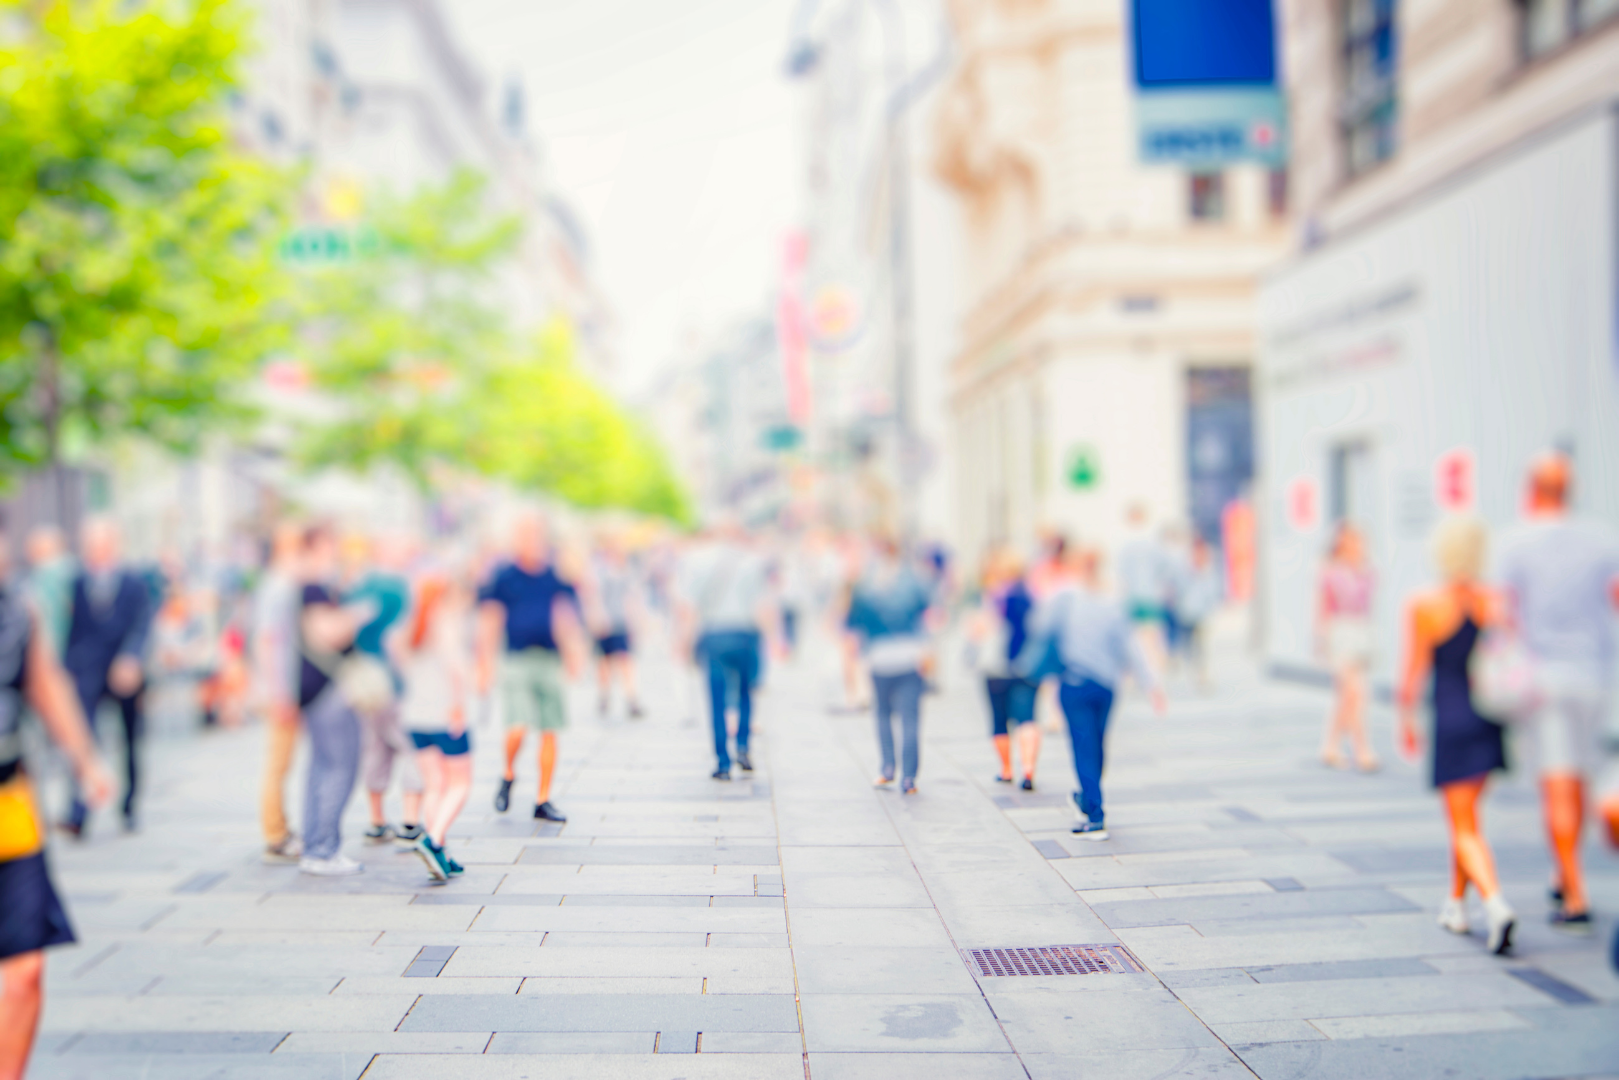
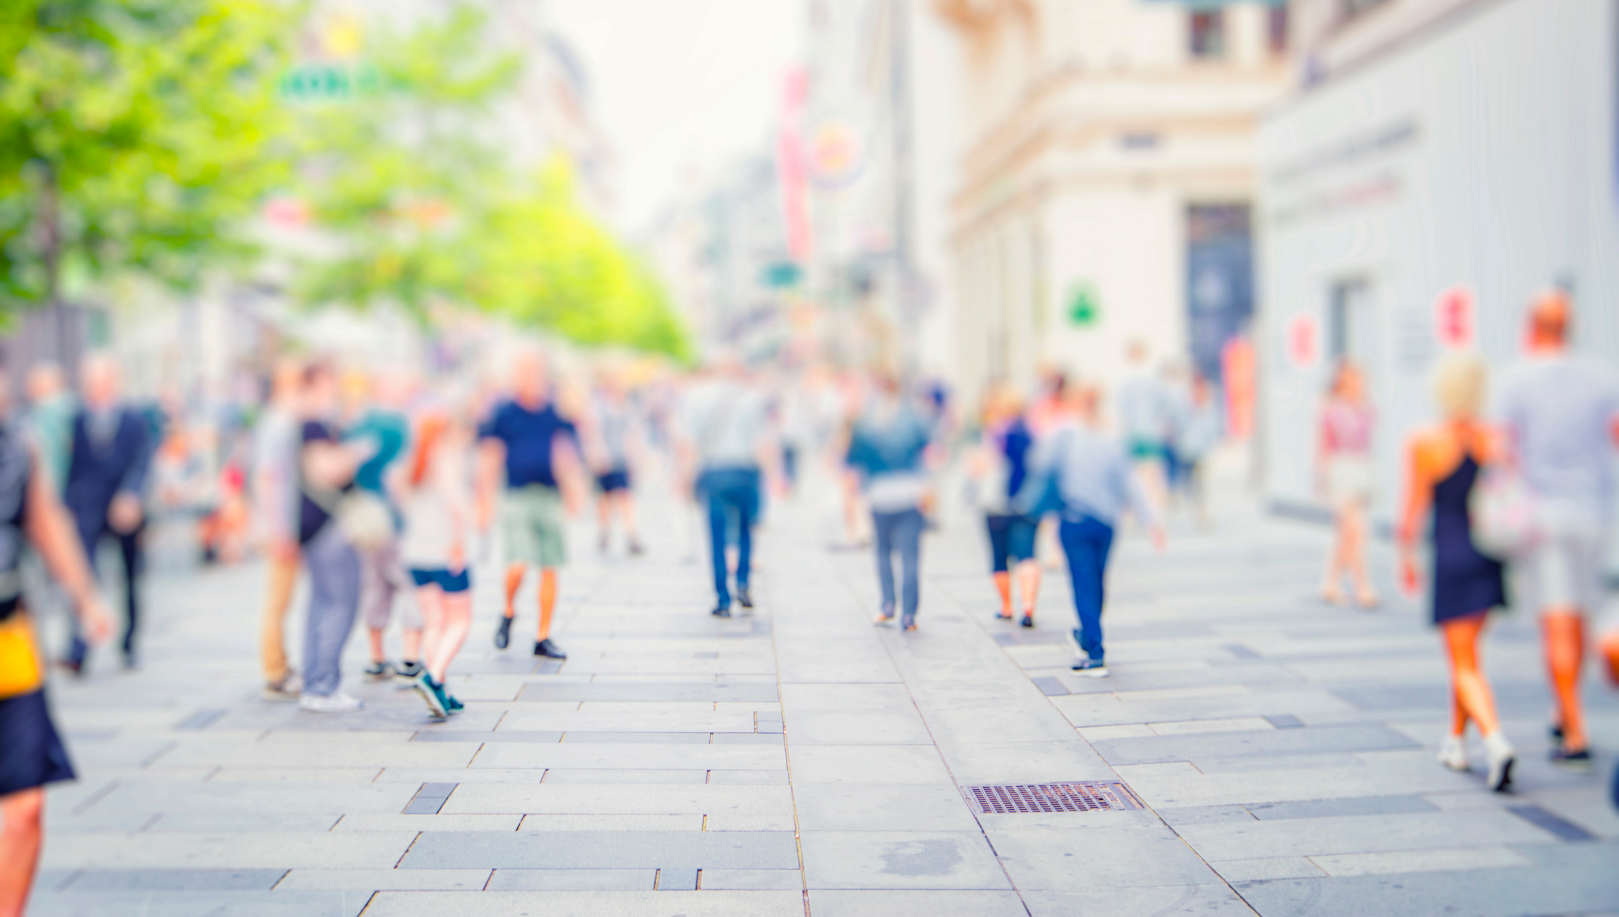
Finish intial refactor

diff --git a/src/components/pages/Home/styles.css b/src/components/pages/Home/styles.css
@@ -5,14 +5,10 @@
 }
 
 #logoBlack {
-  height: 33vh;
-  margin-top: 7%;
-  background: linear-gradient(
-180deg
-, rgba(255,255,255,0) 0%, rgba(255,255,255,1) 67%);
+  height: 37vh;
+  margin-top: 5%;
   padding: 0.7rem 1.7rem;
-  filter: drop-shadow(0px 6px 6px #150938);
-  border-radius: 7px;
+  filter: drop-shadow(0px 6px 6px white);
 }
 
 #portalAccess {
@@ -84,7 +80,9 @@
   display: flex;
   justify-content: space-evenly;
   align-items: center;
-  background: linear-gradient(0deg, rgba(255,255,255,1) 0%, #039746 100%);
+  background: linear-gradient( 
+    0deg
+     , rgba(255,255,255,1) 0%, #15b46f 100%);
   border-bottom: 1px solid #f4f0fff5;
   box-shadow: inset 0px -4px 8px 4px #0397463b;
   min-height: 207px;
@@ -186,11 +184,12 @@
 #missionStatementUnderlines {
   margin: 2rem auto;
   width: 55%;
+  filter: hue-rotate(263deg);
 }
 
 #community {
-  color: #1B5BFA;
-  text-shadow: 1px 1px 2px #050002;
+  color: #17ac6c;
+  text-shadow: 1px 1px 2px #150938;
 }
 
 #portalModal {
@@ -230,6 +229,77 @@
   z-index: 1;
 }
 
+.home-section {
+  display: flex;
+  flex-direction: column;
+  padding: 2rem;
+  font-size: 2rem;
+}
+
 #whatWeDo {
-  background: black;
+  text-align: right;
+  background: #08553314;
+  border-top: 1px solid #8fc4b1;
+  border-bottom: 1px solid #8fc4b1;
+}
+
+#whatWeDoHeader {
+  align-self: flex-end;
+}
+
+#whatWeDoContentWrapper {
+  display: flex;
+}
+
+#whatWeDoIcon {
+  height: 11rem;
+  align-self: flex-end;
+  filter: opacity(0.3);
+}
+
+#whatWeDoContent {
+  margin: 1rem 4rem 0rem;
+  line-height: 2.9rem;
+}
+
+#whyWereHere {
+  text-align: left;
+}
+
+#whyWereHere p {
+  margin: 2rem;
+}
+
+#whyWereHereContent2 {
+  text-align: center; 
+}
+
+#communityVector {
+  width: 50vw;
+  filter: opacity(0.1);
+  margin: auto;
+}
+
+#explore {
+  display: flex;
+  justify-content: space-around;
+  font-size: 2rem;
+  margin-bottom: 4rem;
+}
+
+.home-link {
+  padding: 2rem;
+  border-radius: 6rem;
+  text-decoration: none;
+  color: white;
+  background: #db1f7d99;
+  box-shadow: inset 0px 0px 10px 11px #30274fa8;
+  transition-duration: 75ms;
+  text-shadow: 1px 3px 2px #1a0f40;
+}
+
+.home-link:hover {
+  color: white;
+  background: #150938ed;
+  box-shadow: inset 1px 0px 11px 2px #5c28fa;
 }

diff --git a/src/components/pages/Home/index.jsx b/src/components/pages/Home/index.jsx
@@ -62,7 +62,7 @@ const Home = ({ history }) => {
             <Parallax 
                 id='parallax' 
                 blur={1} 
-                bgImage={pix.blurryIntersection11} 
+                bgImage={pix.blurryIntersection5} 
                 bgImageAlt='background' 
                 strength={250}
             >
@@ -108,7 +108,7 @@ const Home = ({ history }) => {
                 </>
             )}
 
-            <section id='missionStatement' className='home-section'>
+            <section id='missionStatement'>
                 <div id='missionStatementLeft'>
                     <h2 id='whoWeAre' className='home-sub-header'>{t.whoWeAre}</h2>
                     <img id='treeVectors' src={pix.treeVectors} />
@@ -132,19 +132,23 @@ const Home = ({ history }) => {
 
             <section id='whatWeDo' className='home-section'>
                 <h2 id='whatWeDoHeader' className='home-sub-header'>{t.whatWeDoHeader}</h2>
-                <p id='whatWeDoContent'>{t.whatWeDoContent}</p>
+                <div id='whatWeDoContentWrapper'>
+                    <p id='whatWeDoContent'>{t.whatWeDoContent}</p>
+                    <img id='whatWeDoIcon' src={pix.networkIcon1} />
+                </div>
             </section>
 
             <section id='whyWereHere' className='home-section'>
                 <h2 id='whyWereHereHeader' className='home-sub-header'>{t.whyWereHereHeader}</h2>
                 <p id='whyWereHereContent1'>{t.whyWereHereContent1}</p>
+                <img id='communityVector' src={pix.communityVector} />
                 <p id='whyWereHereContent2'>{t.whyWereHereContent2}</p>
             </section>
 
-            <section id='explore' className='home-section'>
-                <Link to={paths.vision}>{t.vision}</Link>
-                <Link to={paths.partners}>{t.partners}</Link>
-                <Link to={paths.contact}>{t.contact}</Link>
+            <section id='explore'>
+                <Link to={paths.vision} className='home-link'>{t.vision}</Link>
+                <Link to={paths.partners} className='home-link'>{t.partners}</Link>
+                <Link to={paths.contact} className='home-link'>{t.contact}</Link>
             </section>
         </main>
     )

diff --git a/src/components/pages/Vision/index.jsx b/src/components/pages/Vision/index.jsx
@@ -1,5 +1,4 @@
 import React from 'react'
-import { Card, Icon, Image } from 'semantic-ui-react'
 import './styles.css'
 
 import { contentBoxes } from '../../../constants'
@@ -13,26 +12,8 @@ const t = {
 
 const Vision = () =>
     <main id='visionPage'>
-        <img id='visionVector' src={pix.fiveGVector} />
+        <img id='visionVector' src={pix.fiveGSkySignal} />
         <h1 id='visionHeader'>{t.header}</h1>
-        {/* <Card>
-            <Image src='https://react.semantic-ui.com/images/avatar/large/matthew.png' wrapped ui={false} />
-            <Card.Content>
-                <Card.Header>Matthew</Card.Header>
-                <Card.Meta>
-                    <span className='date'>Joined in 2015</span>
-                </Card.Meta>
-                <Card.Description>
-                    Matthew is a musician living in Nashville.
-                </Card.Description>
-                </Card.Content>
-                <Card.Content extra>
-                <a>
-                    <Icon name='user' />
-                    22 Friends
-                </a>
-            </Card.Content>
-        </Card> */}
         {contentBoxes.ourVision.map(({ id, title, content }) => 
             <ContentBox key={id} id={id} title={title} content={content} />
         )}

diff --git a/src/assets/pix/index.js b/src/assets/pix/index.js
@@ -18,6 +18,7 @@ import cityCenterWoman from './cityCenterWoman.png'
 import cityEagleView from './cityEagleView.png'
 import cityObelisk from './cityObelisk.png'
 import communityDefinition from './communityDefinition.png'
+import communityVector from './communityVector.png'
 import constructionCrew from './constructionCrew.png'
 import farmFamily from './farmFamily.png'
 import fireworks from './fireworks.png'
@@ -49,6 +50,7 @@ import ladyCrossing from './ladyCrossing.png'
 import logoWhite from './logoWhite.png'
 import logoBlack from './logoBlack.png'
 import mainStreet from './mainStreet.jpg'
+import networkIcon1 from './networkIcon1.png'
 import niceWalkway from './niceWalkway.png'
 import nightStation from './nightStation.png'
 import nuts from './nuts.png'
@@ -88,6 +90,7 @@ export {
     cityEagleView,
     cityObelisk,
     communityDefinition,
+    communityVector,
     constructionCrew,
     farmFamily,
     fireworks,
@@ -119,6 +122,7 @@ export {
     logoWhite,
     logoBlack,
     mainStreet,
+    networkIcon1,
     niceWalkway,
     nightStation,
     nuts,

diff --git a/src/components/UI/ContentBox/styles.css b/src/components/UI/ContentBox/styles.css
@@ -8,6 +8,12 @@
     margin: 1rem;
 } 
 
+.content-box-section:nth-child(odd) {
+    background: #08553314;
+    border-top: 1px solid #8fc4b1;
+    border-bottom: 1px solid #8fc4b1;
+}
+
 .content-box-section:nth-child(even) h2 {
     float: left;
 }
@@ -18,10 +24,9 @@
 .content-box-title {
     font-family: 'Ubuntu', sans-serif;
     font-size: 3rem;
-    color: #550034;
+    color: #150938;
     padding: 1rem;
-    width: fit-content;
-    text-shadow: 1px 1px 3px #31f7b5;
+    text-shadow: 1px 1px 3px #acf3da;   
 }
 
 .content-box-content {

diff --git a/src/constants.js b/src/constants.js
@@ -64,8 +64,8 @@ export const contentBoxes = {
     ],
     ourVision: [
         {
-            id: 'whatWeDo',
-            title: 'What We Do',
+            id: 'mission',
+            title: 'Mission Statement',
             content: `What is needed is a deeper understanding of the community’s goals, and then building a
             system around them. Civitas’ s customized, flexible Open Source 5G based wireless network
             supplies the community with not only reliable, secure, and high-speed data, but a whole host

diff --git a/src/components/UI/NavBar/styles.css b/src/components/UI/NavBar/styles.css
@@ -18,13 +18,13 @@
   padding: 1.1rem 0;
   text-decoration: none;
   color: white;
-  background: #a44165c7;
-  box-shadow: inset 0px 0px 10px 11px #30274fc2;
   width: 12rem;
   transition-duration: 75ms;
   text-shadow: 2px 3px 3px #1a0f40;
   border-radius: 3px;
   height: 3.4rem;
+  background: #db1f7d99;
+  box-shadow: inset 0px 0px 10px 11px #30274fa8;
 }
 
 #navBar a:hover {

diff --git a/src/components/UI/Layout/styles.css b/src/components/UI/Layout/styles.css
@@ -8,6 +8,11 @@
   src: local('Myriad-Pro-Bold'), url(../../../assets/fonts/Myriad-Pro-Bold.woff) format('woff');
 }
 
+@font-face {
+  font-family: 'Rational-Text';
+  src: local('Rational-Text'), url(../../../assets/fonts/Rational-Text.woff) format('woff');
+}
+
 html, body {
   height: 100%;
 } 

diff --git a/src/components/pages/Vision/styles.css b/src/components/pages/Vision/styles.css
@@ -1,9 +1,11 @@
 #visionVector {
     position: absolute;
-    top: 1rem;
-    left: 3rem;
-    width: 14rem;
+    top: 0;
+    width: 27rem;
     filter: saturate(1.3);
+    border-bottom-right-radius: 188px;
+    padding: 0 1rem 1rem 0;
+    border: solid 1px #18AC6C;
 }
 
 #visionHeader {

diff --git a/src/components/UI/Footer/styles.css b/src/components/UI/Footer/styles.css
@@ -5,9 +5,7 @@
   align-items: center;
   background: linear-gradient( 
 180deg
-, rgba(255,255,255,1) 0%, #039746 100%);
-  border-top: 1px solid #f4f0fff5;
-  box-shadow: inset 0px 4px 8px 4px #0397463b;
+, rgba(255,255,255,1) 0%, #15b46f 100%);
 }
 
 #footerIcon {
